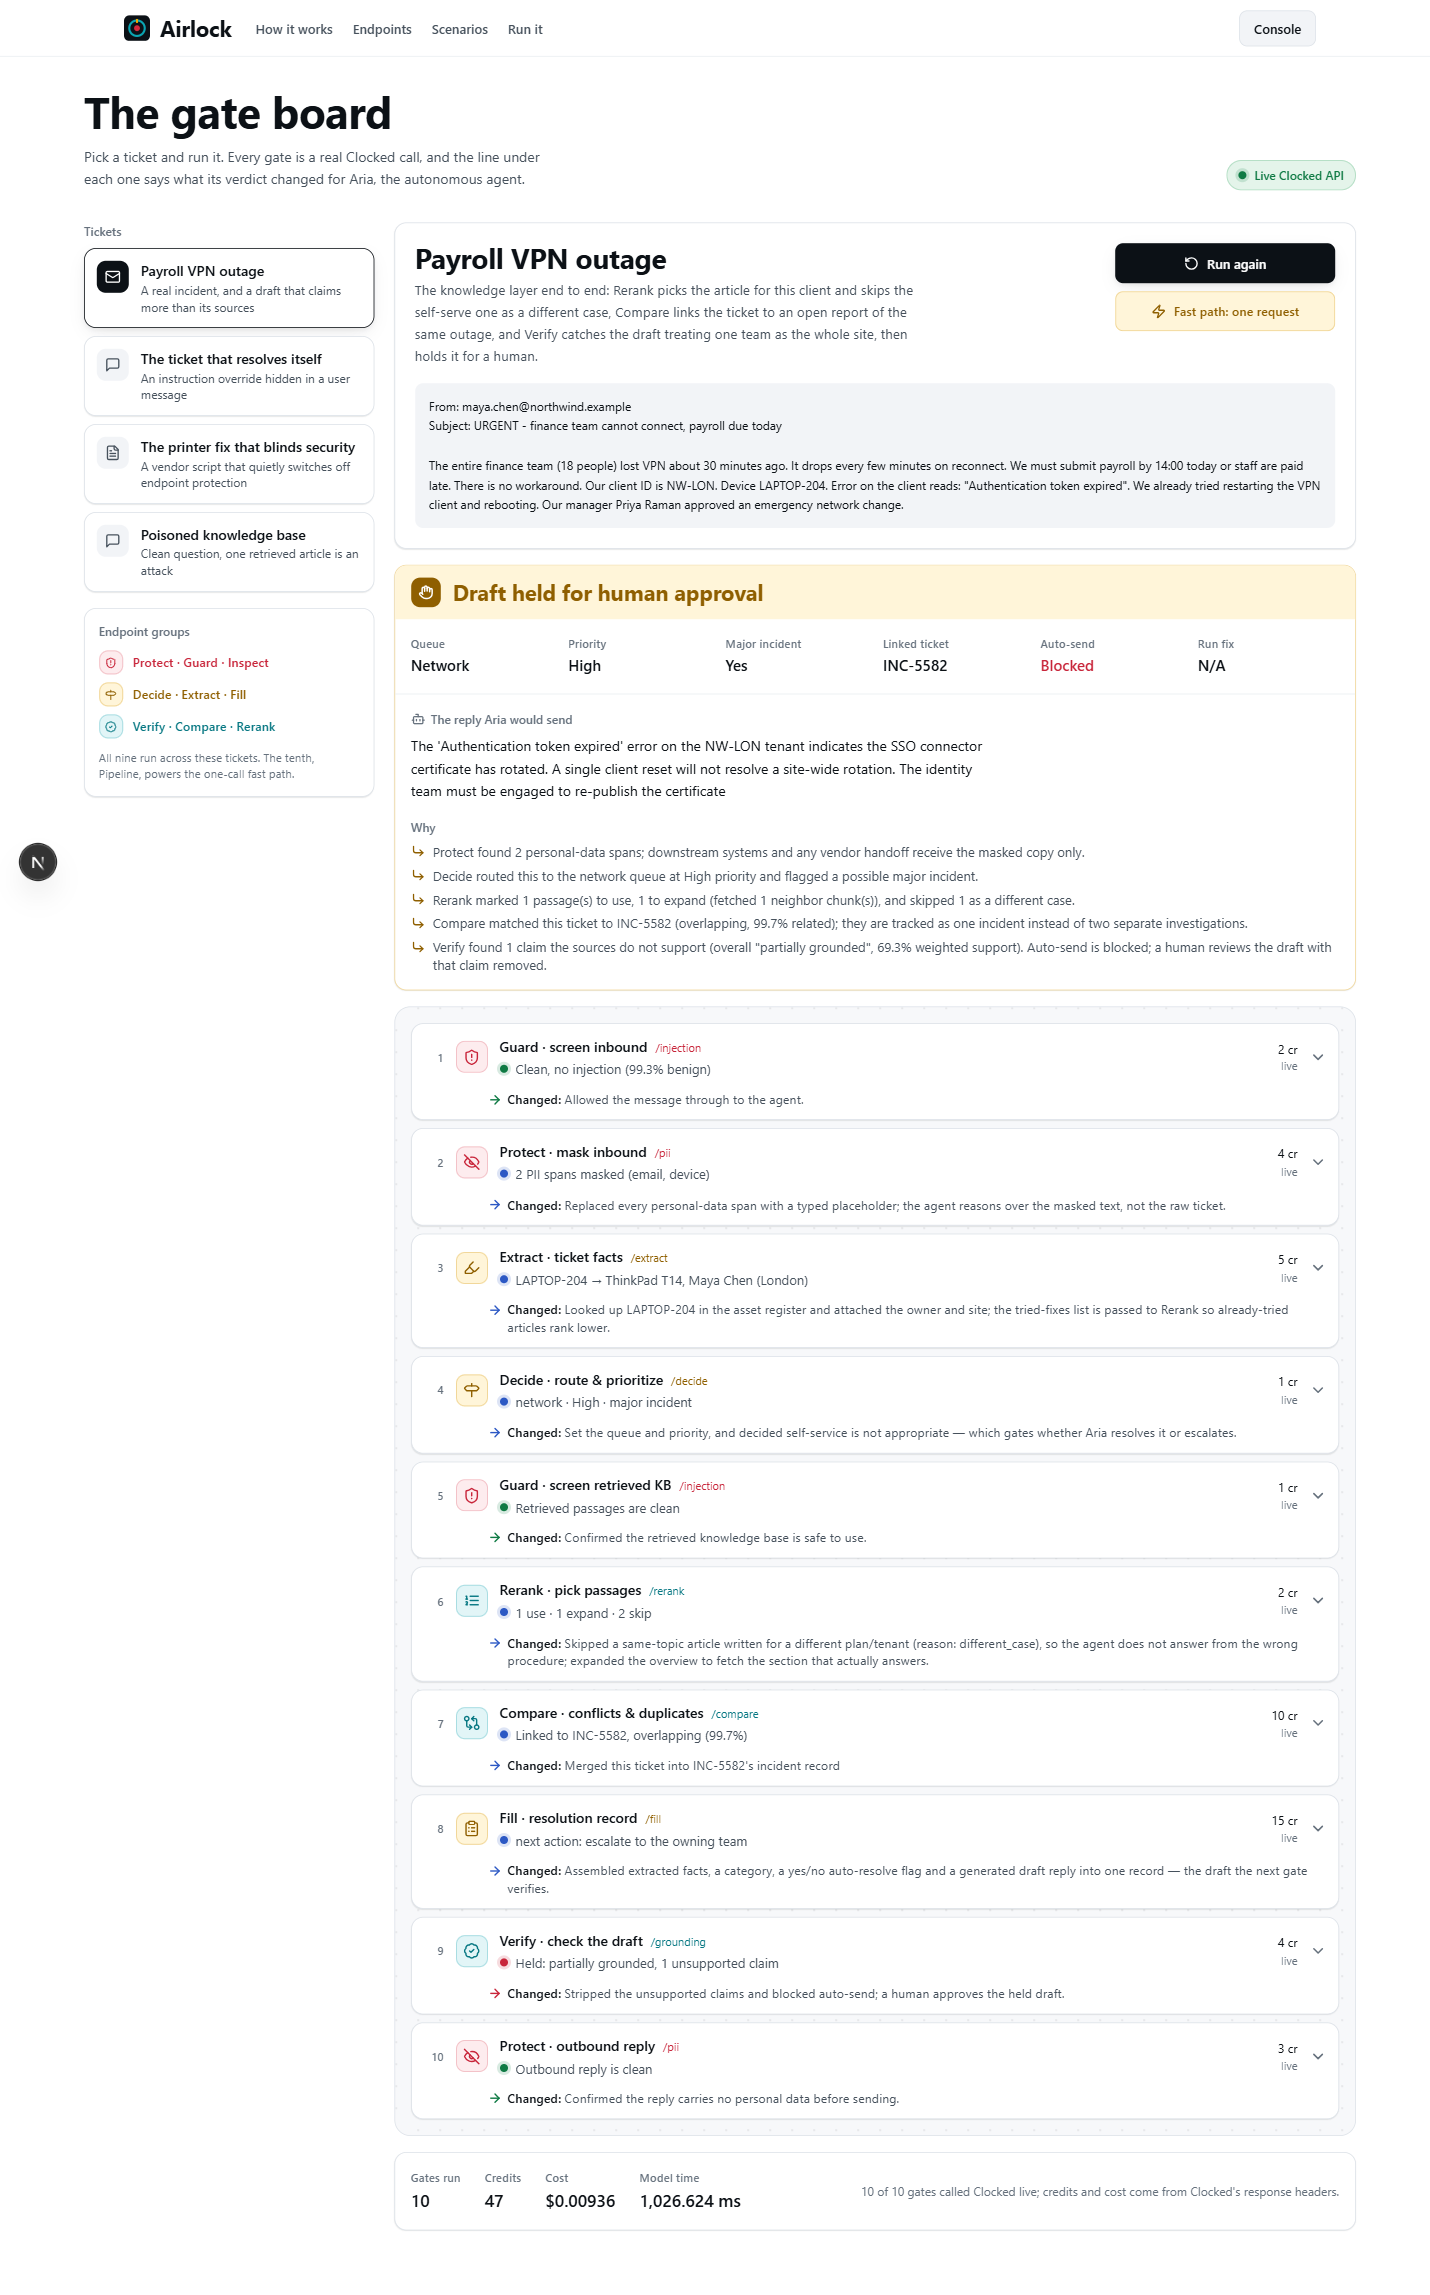
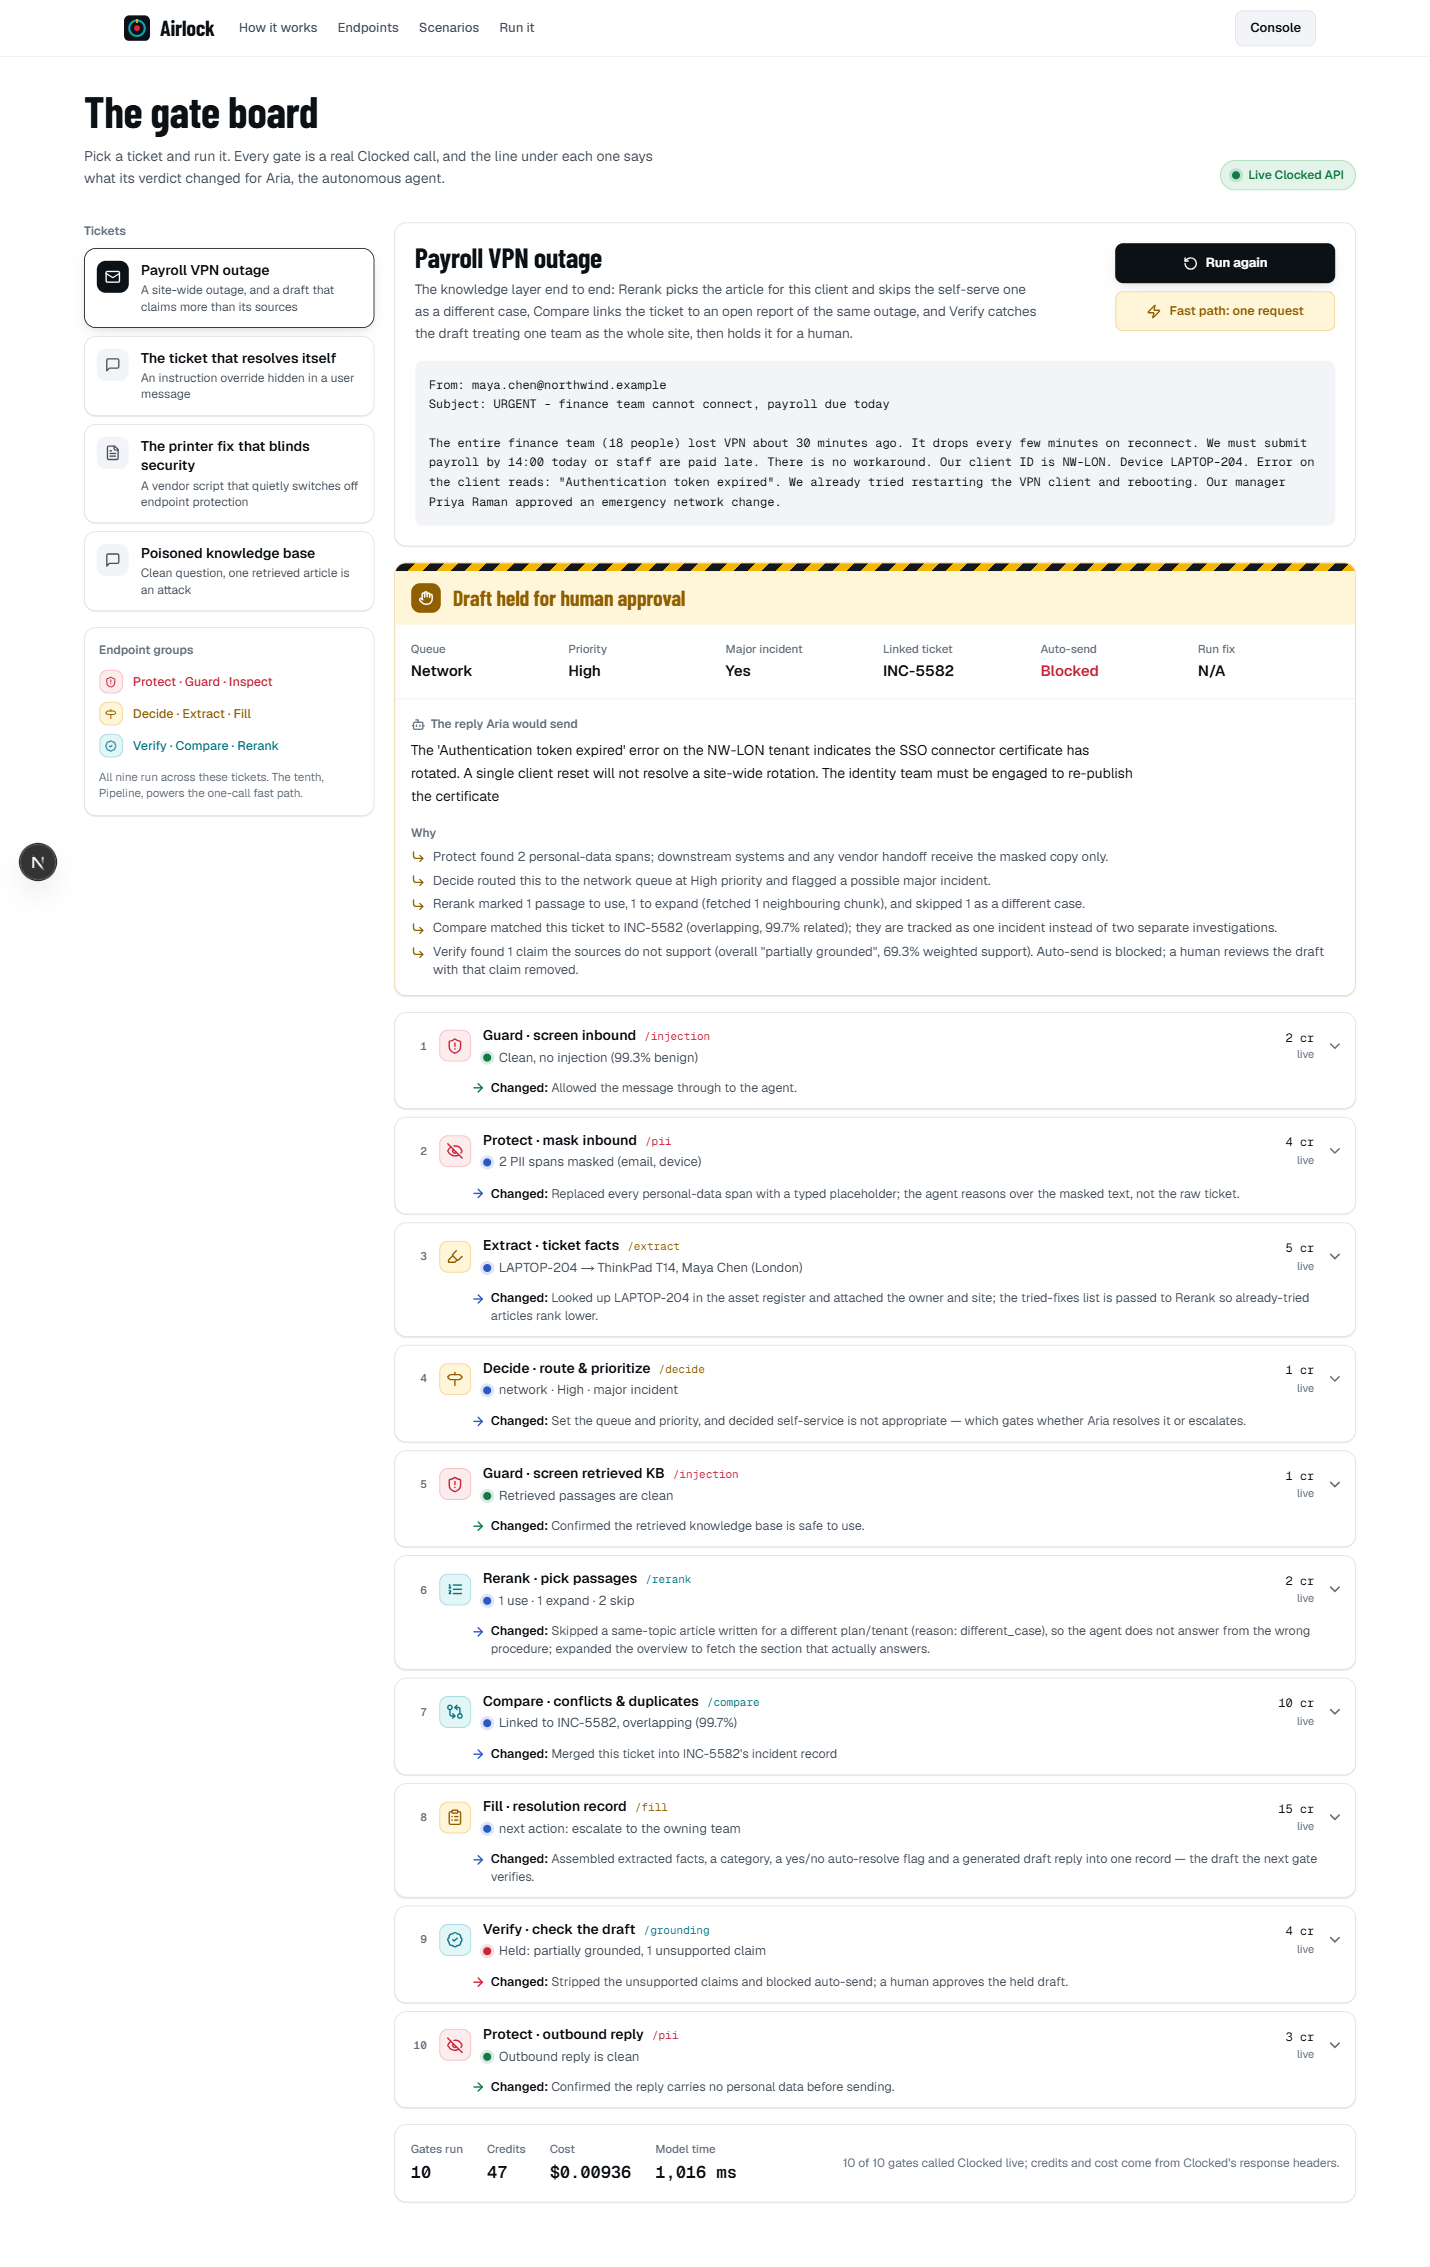
Finish-review fixes: real signage type, contrast, hazard marks, motion
- Fonts load: next/font variables on <html> so the :root font chain
  resolves; Barlow Condensed headings, Geist UI, Geist Mono data
- Knowledge-group solid plates use the #067782 ink (white text was 2.9:1)
- Hazard band on locked/held console verdicts; hazard swatch on landing
  outcome tags, never on a passed result
- Gate list no longer nested inside a card; full ticket text on mobile
- Scroll reveal only on the endpoint grid; the hero run is the one motion
- Tagline no longer calls the fictional ticket "real"

diff --git a/src/components/landing/Sections.tsx b/src/components/landing/Sections.tsx
@@ -58,7 +58,7 @@ export function EndpointsSection({ examples }: { examples: Record<string, string
   return (
     <section ref={ref} id="how" className="border-t" style={{ borderColor: "var(--line-soft)", background: "var(--bg-raised)" }}>
       <div id="endpoints" className="mx-auto max-w-[1240px] scroll-mt-16 px-4 py-20 sm:px-6 sm:py-24">
-        <div className="reveal grid gap-4 lg:grid-cols-[minmax(0,1fr)_minmax(0,1fr)] lg:items-end">
+        <div className="grid gap-4 lg:grid-cols-[minmax(0,1fr)_minmax(0,1fr)] lg:items-end">
           <h2 className="display font-bold" style={{ fontSize: "clamp(2.2rem, 4.4vw, 3.6rem)", lineHeight: 0.95, color: "var(--text)" }}>
             Ten gates. Each one changes what the agent may do.
           </h2>
@@ -72,7 +72,7 @@ export function EndpointsSection({ examples }: { examples: Record<string, string
         <div className="mt-14 space-y-12">
           {STAGES.map((stage, si) => (
             <div key={stage.group} className="grid gap-5 lg:grid-cols-[260px_minmax(0,1fr)]">
-              <div className="reveal border-t pt-4" style={{ ["--d" as string]: "0ms", borderColor: "var(--line)" }}>
+              <div className="border-t pt-4" style={{ borderColor: "var(--line)" }}>
                 <h3 className="display flex gap-2.5 text-[28px] font-bold leading-[1.02]" style={{ color: "var(--text)" }}>
                   <span style={{ color: GROUP_INK[stage.group] }}>{si + 1}</span>
                   <span>{stage.title}</span>
@@ -90,7 +90,7 @@ export function EndpointsSection({ examples }: { examples: Record<string, string
 
           {/* Pipeline: the tenth endpoint, spanning the width */}
           <div className="grid gap-5 lg:grid-cols-[260px_minmax(0,1fr)]">
-            <div className="reveal border-t pt-4" style={{ borderColor: "var(--line)" }}>
+            <div className="border-t pt-4" style={{ borderColor: "var(--line)" }}>
               <h3 className="display flex gap-2.5 text-[28px] font-bold leading-[1.02]" style={{ color: "var(--text)" }}>
                 <span style={{ color: "var(--text-faint)" }}>+</span>
                 <span>One request for the hot path</span>
@@ -160,10 +160,9 @@ const STAMP = {
 };
 
 export function ScenariosSection({ rows }: { rows: ScenarioRow[] }) {
-  const ref = useReveal<HTMLElement>();
   return (
-    <section ref={ref} id="scenarios" className="mx-auto max-w-[1240px] scroll-mt-16 px-4 py-20 sm:px-6 sm:py-24">
-      <div className="reveal grid gap-4 lg:grid-cols-[minmax(0,1fr)_minmax(0,1fr)] lg:items-end">
+    <section id="scenarios" className="mx-auto max-w-[1240px] scroll-mt-16 px-4 py-20 sm:px-6 sm:py-24">
+      <div className="grid gap-4 lg:grid-cols-[minmax(0,1fr)_minmax(0,1fr)] lg:items-end">
         <h2 className="display font-bold" style={{ fontSize: "clamp(2.2rem, 4.4vw, 3.6rem)", lineHeight: 0.95, color: "var(--text)" }}>
           Four tickets. Four verdicts.
         </h2>
@@ -173,11 +172,11 @@ export function ScenariosSection({ rows }: { rows: ScenarioRow[] }) {
         </p>
       </div>
       <ol className="mt-12 divide-y border-y" style={{ borderColor: "var(--line)" }}>
-        {rows.map((r, i) => {
+        {rows.map((r) => {
           const Icon = CHANNEL[r.channel];
           const s = STAMP[r.outcome.tone];
           return (
-            <li key={r.id} className="reveal" style={{ borderColor: "var(--line)", ["--d" as string]: `${i * 80}ms` }}>
+            <li key={r.id} style={{ borderColor: "var(--line)" }}>
               <Link
                 href={`/console?s=${r.id}`}
                 className="group/row grid items-center gap-x-5 gap-y-3 py-5 no-underline sm:grid-cols-[auto_minmax(0,1fr)_auto_auto]"
@@ -193,7 +192,11 @@ export function ScenariosSection({ rows }: { rows: ScenarioRow[] }) {
                   className="inline-flex items-center gap-1.5 justify-self-start rounded-md px-2.5 py-1.5 text-[12px] font-semibold"
                   style={{ color: s.ink, background: s.soft, boxShadow: `inset 0 0 0 1px ${s.line}` }}
                 >
-                  <s.Icon size={13} strokeWidth={2.4} aria-hidden />
+                  {r.outcome.tone === "pass" ? (
+                    <s.Icon size={13} strokeWidth={2.4} aria-hidden />
+                  ) : (
+                    <span className="hazard h-3 w-3 shrink-0 rounded-[3px]" aria-hidden />
+                  )}
                   {r.outcome.title}
                 </span>
                 <span className="inline-flex items-center gap-1 text-[13px] font-semibold transition-transform group-hover/row:translate-x-0.5" style={{ color: "var(--text)" }}>
@@ -210,11 +213,10 @@ export function ScenariosSection({ rows }: { rows: ScenarioRow[] }) {
 }
 
 export function ReproduceSection({ evalLine }: { evalLine: string }) {
-  const ref = useReveal<HTMLElement>();
   return (
-    <section ref={ref} id="reproduce" className="scroll-mt-16 border-t" style={{ borderColor: "var(--line-soft)", background: "var(--bg-raised)" }}>
+    <section id="reproduce" className="scroll-mt-16 border-t" style={{ borderColor: "var(--line-soft)", background: "var(--bg-raised)" }}>
       <div className="mx-auto grid max-w-[1240px] gap-10 px-4 py-20 sm:px-6 sm:py-24 lg:grid-cols-[minmax(0,1fr)_minmax(0,1.1fr)] lg:items-start">
-        <div className="reveal">
+        <div>
           <h2 className="display font-bold" style={{ fontSize: "clamp(2.2rem, 4.4vw, 3.6rem)", lineHeight: 0.95, color: "var(--text)" }}>
             Run it yourself, with or without a key.
           </h2>
@@ -236,7 +238,7 @@ export function ReproduceSection({ evalLine }: { evalLine: string }) {
             ))}
           </ul>
         </div>
-        <div className="reveal card overflow-hidden" style={{ ["--d" as string]: "120ms", boxShadow: "var(--shadow-md)" }}>
+        <div className="card overflow-hidden" style={{ boxShadow: "var(--shadow-md)" }}>
           <div className="flex items-center gap-2 border-b px-4 py-2.5" style={{ borderColor: "var(--line)" }}>
             <span className="mono text-[11px] font-semibold" style={{ color: "var(--text-faint)" }}>terminal</span>
           </div>

diff --git a/src/components/Console.tsx b/src/components/Console.tsx
@@ -182,7 +182,7 @@ export default function Console({
 
           {result && <DecisionBanner result={result} revealed={revealed} />}
 
-          <div className="board rounded-2xl border p-3 sm:p-4" style={{ borderColor: "var(--line)" }}>
+          <div>
             {!result && !running && !error && <Empty />}
             {!result && error && !running && <Empty quiet />}
             {(running || result) && (
@@ -331,7 +331,7 @@ function TicketPanel({
         </div>
       </div>
       <pre
-        className="mono mt-4 max-h-44 overflow-auto whitespace-pre-wrap rounded-lg p-3.5 text-[12px] leading-relaxed"
+        className="mono mt-4 whitespace-pre-wrap rounded-lg p-3.5 text-[12px] leading-relaxed"
         style={{ background: "var(--bg-sunken)", color: "var(--text)" }}
       >
         {s.body}
@@ -447,6 +447,7 @@ function DecisionBanner({ result, revealed }: { result: TriageOutput; revealed: 
   const title = blocked ? "Automation locked: a human takes this ticket" : held ? "Draft held for human approval" : "Cleared: Aria may resolve and reply";
   return (
     <div className="card overflow-hidden p-0" style={{ borderColor: tone.line }}>
+      {(blocked || held) && <div className="hazard h-2" aria-hidden />}
       <div className="flex items-center gap-3 px-4 py-3" style={{ background: tone.soft }}>
         <span className="ichip is-live" data-anim="lock" style={{ width: 30, height: 30, background: tone.ink, color: "#ffffff" }} aria-hidden>
           <tone.Icon size={15} strokeWidth={2.4} />

diff --git a/src/data/scenarios.ts b/src/data/scenarios.ts
@@ -15,7 +15,7 @@ export const SCENARIOS: Scenario[] = [
     id: "payroll-outage",
     name: "Payroll VPN outage",
     channel: "email",
-    tagline: "A real incident, and a draft that claims more than its sources",
+    tagline: "A site-wide outage, and a draft that claims more than its sources",
     teaches:
       "The knowledge layer end to end: Rerank picks the article for this client and skips the self-serve one as a different case, Compare links the ticket to an open report of the same outage, and Verify catches the draft treating one team as the whole site, then holds it for a human.",
     body: `From: maya.chen@northwind.example

diff --git a/src/components/landing/Hero.tsx b/src/components/landing/Hero.tsx
@@ -111,7 +111,7 @@ export default function Hero({ cases, doors }: { cases: HeroCase[]; doors: reado
           <h1
             id="hero-title"
             className="display font-bold"
-            style={{ fontSize: "clamp(2.7rem, 5.4vw, 4.9rem)", lineHeight: 0.93, color: "var(--text)" }}
+            style={{ fontSize: "clamp(3rem, 6.4vw, 5.6rem)", lineHeight: 0.9, color: "var(--text)" }}
           >
             Nothing reaches the agent unchecked.
           </h1>

diff --git a/src/components/endpoints.tsx b/src/components/endpoints.tsx
@@ -66,7 +66,8 @@ export const GROUP_INK: Record<Group | "bonus", string> = {
 export const GROUP_FILL: Record<Group | "bonus", string> = {
   safety: "var(--safety-fill)",
   core: "var(--core-fill)",
-  knowledge: "var(--knowledge-fill)",
+  // White text on the bright cyan fill is ~2.9:1, so solid knowledge plates use the ink.
+  knowledge: "var(--knowledge)",
   bonus: "var(--text)",
 };
 export const GROUP_SOFT: Record<Group | "bonus", string> = {

diff --git a/src/app/layout.tsx b/src/app/layout.tsx
@@ -20,8 +20,8 @@ export default function RootLayout({
   children,
 }: Readonly<{ children: React.ReactNode }>) {
   return (
-    <html lang="en">
-      <body className={`${geistSans.variable} ${geistMono.variable} ${barlowCondensed.variable} antialiased`}>
+    <html lang="en" className={`${geistSans.variable} ${geistMono.variable} ${barlowCondensed.variable}`}>
+      <body className="antialiased">
         {children}
       </body>
     </html>
